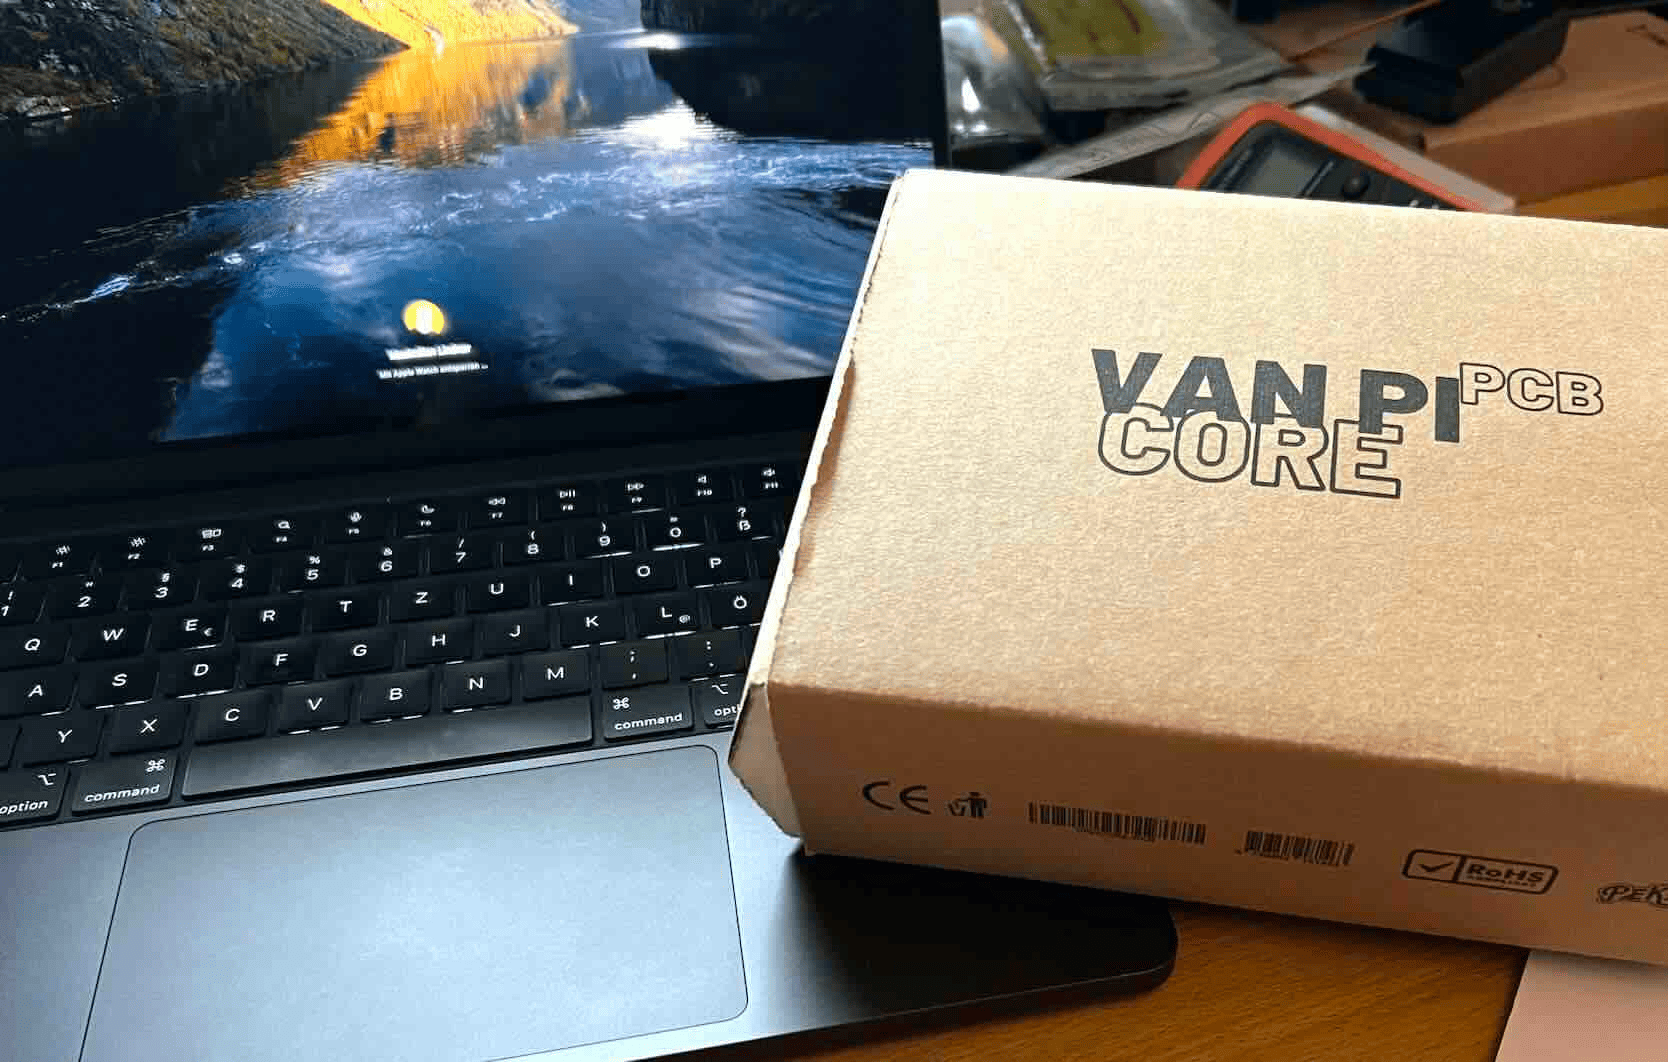
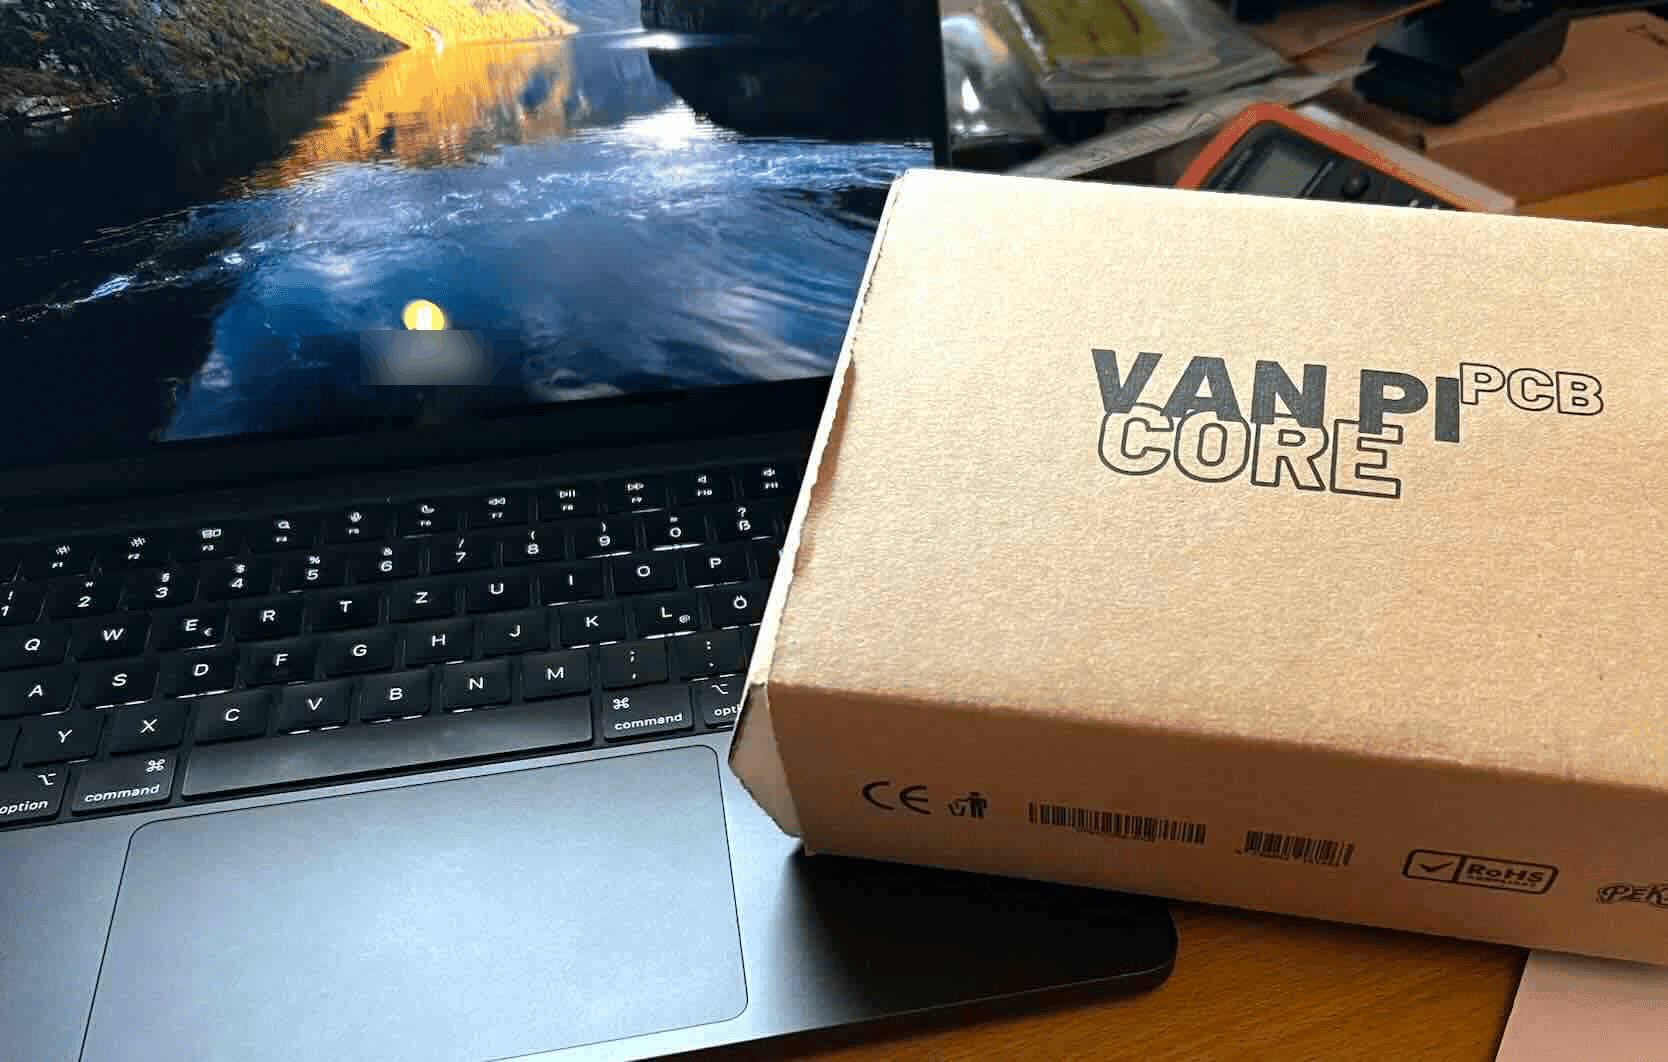
Datenschutz: Namen im Vorschaubild unkenntlich, neutrale Testnamen
Claude-Session: https://claude.ai/code/session_011HMMnPwERJiDiYbHXWFKoh

Changed region(s): [[0.1871, 0.0621, 0.2806, 0.1554], [0.2182, 0.3107, 0.3118, 0.3729], [0.8417, 0.1554, 0.8729, 0.1864]]

diff --git a/tests/test_modules_integration.py b/tests/test_modules_integration.py
@@ -92,7 +92,7 @@ async def test_io_module(hass: HomeAssistant, hardware) -> None:
     # alte Komponente mit Namen
     MockConfigEntry(
         domain="mcp23017",
-        data={"i2c_address": 0x20, "pin_number": 8, "pin_name": "Trittstufe rein",
+        data={"i2c_address": 0x20, "pin_number": 8, "pin_name": "Wasserpumpe",
               "platform": "switch"},
     ).add_to_hass(hass)
     entry = await setup_entry(hass)
@@ -101,7 +101,7 @@ async def test_io_module(hass: HomeAssistant, hardware) -> None:
         [
             {"name": "VAN PI", "i2c_bus": 1, "address": "0x20", "invert_inputs": True,
              "invert_relays": False, "keep_state": True},
-            {"relay_1": "Trittstufe rein", "input_7": "Zündung ein"},
+            {"relay_1": "Wasserpumpe", "input_7": "Tür offen"},
         ],
     )
     assert result["type"] is FlowResultType.CREATE_ENTRY
@@ -109,7 +109,7 @@ async def test_io_module(hass: HomeAssistant, hardware) -> None:
     await hass.async_block_till_done()
 
     relay = entity_id(hass, "_relay_1", "switch")
-    assert relay == "switch.van_pi_trittstufe_rein"
+    assert relay == "switch.van_pi_wasserpumpe"
     assert hass.states.get(relay).state == "off"
     await hass.services.async_call("switch", "turn_on", {"entity_id": relay}, blocking=True)
     assert mcp_bus.regs[0x1A] == 0x01

diff --git a/tests/test_integration.py b/tests/test_integration.py
@@ -201,7 +201,7 @@ async def test_migration_v1(hass: HomeAssistant) -> None:
     )
     old = ent_reg.async_get_or_create(
         "switch", DOMAIN, f"{entry.entry_id}_leveling_active",
-        config_entry=entry, device_id=device.id, suggested_object_id="aussen_nivellierung_aktiv",
+        config_entry=entry, device_id=device.id, suggested_object_id="camper_nivellierung_aktiv",
     )
 
     assert await hass.config_entries.async_setup(entry.entry_id)
@@ -219,6 +219,6 @@ async def test_migration_v1(hass: HomeAssistant) -> None:
     # Entity-ID bleibt, hängt jetzt am Eintrag Nivellierung
     reg = ent_reg.async_get(old.entity_id)
     assert reg.config_subentry_id == sub_id
-    assert hass.states.get("switch.aussen_nivellierung_aktiv") is not None
+    assert hass.states.get("switch.camper_nivellierung_aktiv") is not None
     dev = dev_reg.async_get(device.id)
     assert dev.config_entries_subentries[entry.entry_id] == {sub_id}
